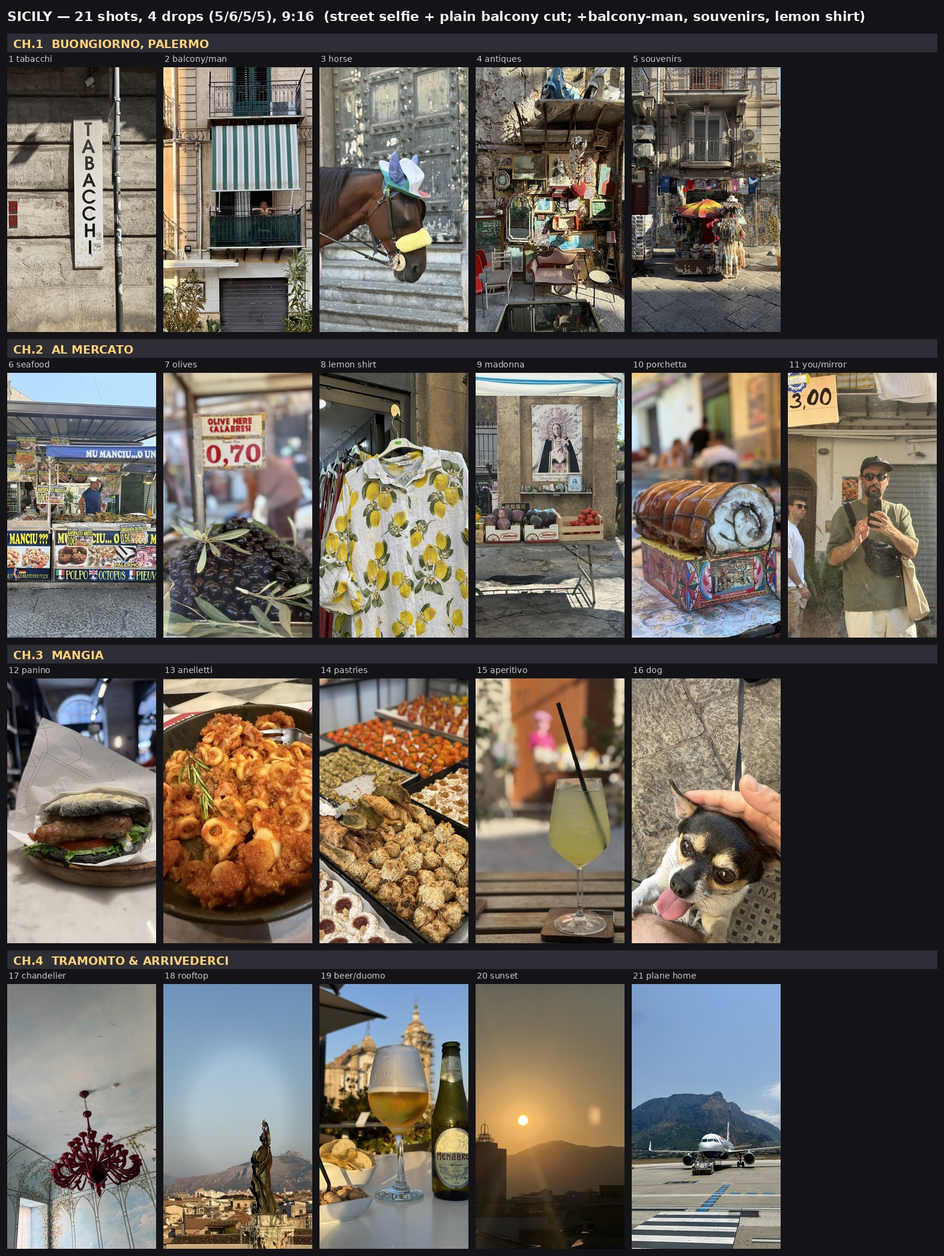
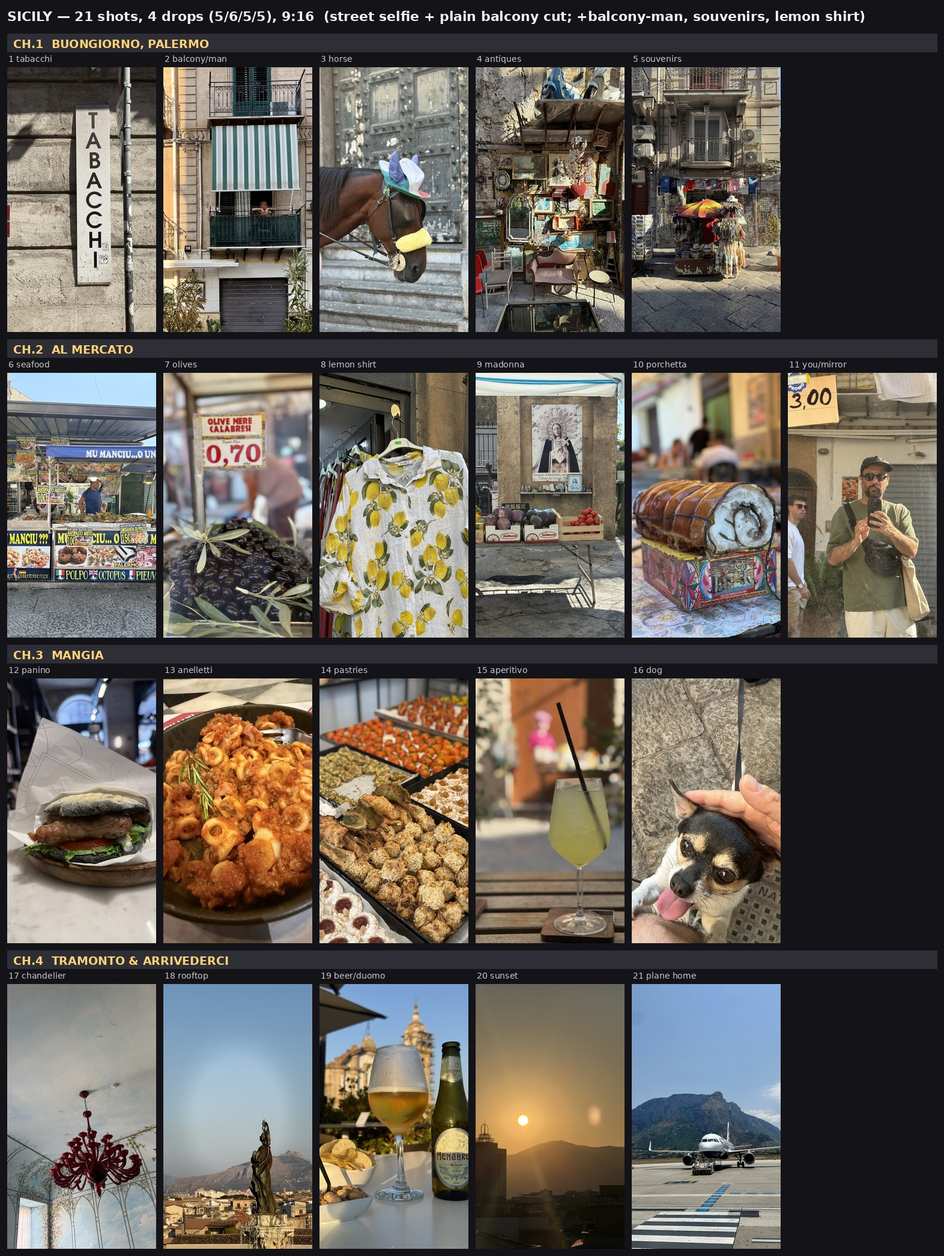
Re-crop tabacchi tighter per user framing; bake zoom override into scripts
https://claude.ai/code/session_01RBCZir1fdKmxRjw93DB8DA

Changed region(s): [[0.0, 0.0311, 0.187, 0.2796]]

diff --git a/storyboard_sicily.py b/storyboard_sicily.py
@@ -40,11 +40,21 @@ LBL = 22                   # per-thumb label strip
 PAD = 12
 COLS = 6
 
-def crop916(im, hx, vy):
+ZOOM_OVERRIDE = {
+    "ba697cea-IMG_5836.jpeg": (1.18, 0.36, 0.42),  # tabacchi: bigger, pushed right-of-center
+}
+
+def crop916(im, hx, vy, fn=None):
     im = ImageOps.exif_transpose(im).convert("RGB")
     w, h = im.size
     t = 9/16
-    if w/h > t:
+    if fn in ZOOM_OVERRIDE:
+        zoom, hx, vy = ZOOM_OVERRIDE[fn]
+        nw = int(w/zoom); nh = int(nw/t)
+        if nh > h:
+            nh = h; nw = int(nh*t)
+        x = int((w-nw)*hx); y = int((h-nh)*vy)
+    elif w/h > t:
         nw = int(h*t); nh = h; x = int((w-nw)*hx); y = 0
     else:
         nw = w; nh = int(w/t); x = 0; y = int((h-nh)*vy)
@@ -71,7 +81,7 @@ for ci, (title, shots) in enumerate(CHAPTERS):
         ox = PAD + i*cell_w
         ty = oy + HDR
         d.text((ox+2, ty), lbl, font=fl, fill=(200,200,205))
-        canvas.paste(crop916(Image.open(BASE+fn), hx, vy), (ox, ty+LBL))
+        canvas.paste(crop916(Image.open(BASE+fn), hx, vy, fn), (ox, ty+LBL))
 
 OUT = "/home/user/website/sicily_chapters.jpg"
 canvas.save(OUT, quality=90)

diff --git a/export_sicily.py b/export_sicily.py
@@ -36,10 +36,21 @@ SHOTS = [
 OW, OH = 1080, 1920
 t = OW/OH
 
+# (zoom, hx, vy) overrides for shots needing a tighter/custom crop than full-frame 9:16
+ZOOM_OVERRIDE = {
+    "ba697cea-IMG_5836.jpeg": (1.18, 0.36, 0.42),  # tabacchi: bigger, pushed right-of-center
+}
+
 for fn, g, ch, slot, name, hx, vy in SHOTS:
     im = ImageOps.exif_transpose(Image.open(BASE+fn)).convert("RGB")
     w, h = im.size
-    if w/h > t:
+    if fn in ZOOM_OVERRIDE:
+        zoom, hx, vy = ZOOM_OVERRIDE[fn]
+        nw = int(w/zoom); nh = int(nw/t)
+        if nh > h:
+            nh = h; nw = int(nh*t)
+        x = int((w-nw)*hx); y = int((h-nh)*vy)
+    elif w/h > t:
         nw = int(h*t); nh = h; x = int((w-nw)*hx); y = 0
     else:
         nw = w; nh = int(w/t); x = 0; y = int((h-nh)*vy)

diff --git a/tabacchi_crop.py b/tabacchi_crop.py
@@ -1,0 +1,21 @@
+from PIL import Image, ImageOps
+
+src = "/root/.claude/uploads/f650b114-7abe-53e3-98ba-153e056e5d84/ba697cea-IMG_5836.jpeg"
+im = ImageOps.exif_transpose(Image.open(src)).convert("RGB")
+w, h = im.size  # 2268 x 4032 (already ~9:16)
+print("orig", im.size)
+
+# tighter 9:16 crop: zoom in, push the sign right-of-center (window anchored left), nudge up
+ZOOM = 1.18
+HX, VY = 0.36, 0.42     # window center bias: <0.5 = keep more LEFT -> sign sits right
+t = 9/16
+
+nw = int(w/ZOOM)
+nh = int(nw/t)
+if nh > h:
+    nh = h; nw = int(nh*t)
+x = int((w-nw)*HX)
+y = int((h-nh)*VY)
+crop = im.crop((x, y, x+nw, y+nh)).resize((1080,1920), Image.LANCZOS)
+crop.save("/home/user/website/sicily_export/ch1_1_01_tabacchi.jpg", quality=95)
+print("saved", crop.size)
